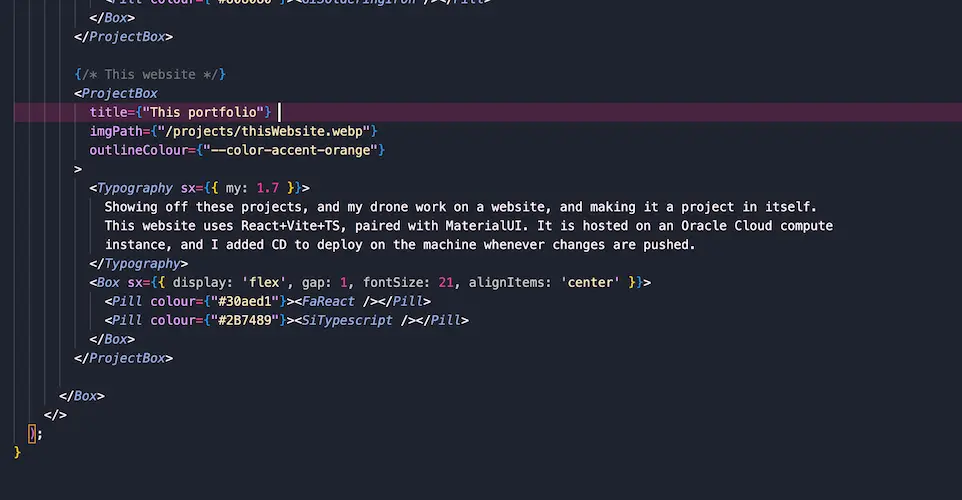
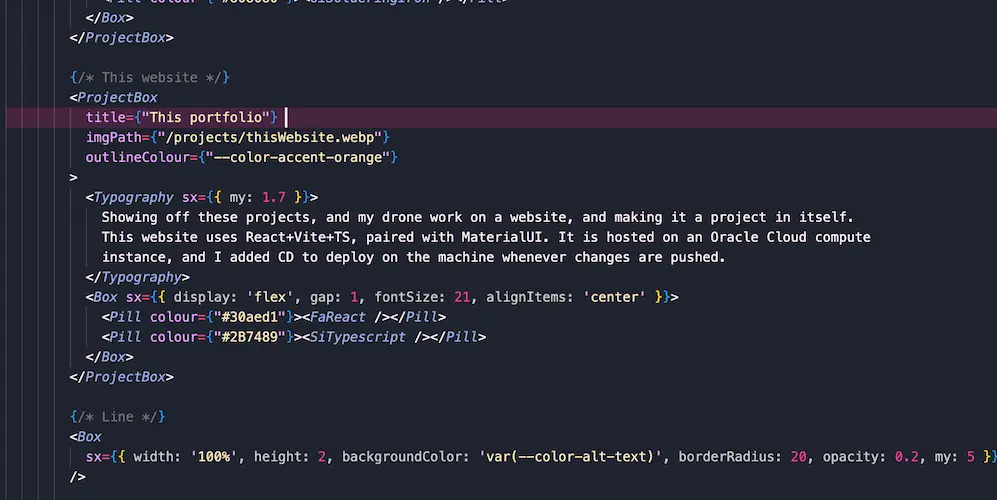
added SmallProjectBox and section for that

Changed region(s): [[0.0, 0.36, 1.0, 0.96], [0.0, 0.12, 1.0, 0.36], [0.0624, 0.0, 0.499, 0.09]]

diff --git a/src/pages/Projects.tsx b/src/pages/Projects.tsx
@@ -9,6 +9,7 @@ import { FaReact } from "react-icons/fa";
 import { Skills } from '../components/Projects/Skills';
 import { Pill } from '../components/Pill';
 import { GiSolderingIron } from 'react-icons/gi';
+import { SmallProjectBox } from '../components/SmallProjectBox';
 
 export default function Projects() {
   return (
@@ -30,10 +31,8 @@ export default function Projects() {
           link={{url: "https://github.com/PledgeJ/OBSOverwatchOverlay", text:"Github repo"}}
         >
           <Typography sx={{ my: 1.7 }}>
-            Created an overlay for OBS (specific to the game Overwatch) to help keep score and display information and statistics during streams. This has been used during streams for events at the
-            {' '}<Box component="span" sx={{ fontWeight: 800 }}>
-              University of Nottingham
-            </Box>{' '}
+            Created an overlay for OBS (specific to the game Overwatch) to help keep score, and display information and statistics in between games, during streams. This has been used during streams for events at the
+            {' '}<Box component="span" sx={{ fontWeight: 800 }}>University of Nottingham</Box>{' '}
             for events such as Notts Clash, and the UoN Draft Tournament.
           </Typography>
           <Box sx={{ display: 'flex', gap: 1, fontSize: 21, alignItems: 'center' }}>
@@ -74,6 +73,28 @@ export default function Projects() {
             <Pill colour={"#2B7489"}><SiTypescript /></Pill>
           </Box>
         </ProjectBox>
+
+        {/* Compact project section */}
+        <Box
+          sx={{pb: 7}}
+        >
+          {/* Line */}
+          <Box 
+            sx={{ width: '100%', height: 2, backgroundColor: 'var(--color-alt-text)', borderRadius: 20, opacity: 0.2, my: 5 }}
+          />
+
+          <SmallProjectBox title={"Test"} link={{url: "https://github.com/PledgeJ/OBSOverwatchOverlay", text:"Github repo"}}>
+            <Box sx={{ display: 'flex', gap: 1, fontSize: 21, alignItems: 'center' }}>
+              <Pill colour={"#30aed1"}><FaReact /></Pill>
+              <Pill colour={"#2B7489"}><SiTypescript /></Pill>
+            </Box>
+          </SmallProjectBox>
+
+          {/* Line */}
+          <Box 
+            sx={{ width: '100%', height: 2, backgroundColor: 'var(--color-alt-text)', borderRadius: 20, opacity: 0.2, my: 5 }}
+          />
+        </Box>
         
       </Box>
     </>

diff --git a/src/components/SmallProjectBox.tsx b/src/components/SmallProjectBox.tsx
@@ -1,0 +1,32 @@
+import { Box, Link, Typography } from "@mui/material";
+import type React from "react";
+
+interface ProjectBoxProps {
+  title?: string;
+  link?: {url: string, text: string};
+  outlineColour?: string;
+  children?: React.ReactNode;
+}
+
+export function SmallProjectBox({
+  title = '',
+  link = {url: '', text: ''},
+  children,
+}: ProjectBoxProps): React.JSX.Element {
+  return (
+    <Box
+      sx={{
+        maxWidth: 470,
+        display: 'flex', alignItems: 'center', gap: 2, justifyContent: 'space-between',
+        mt: 2, backgroundColor: 'var(--color-card-bg)', padding: 1, py: 1.5, borderRadius: 2
+      }}
+    >
+      <Typography variant='h2' sx={{ fontSize: '1.4rem', ml: 0.5}}>{title}</Typography>
+
+      <Box sx={{display: 'inline-flex', alignItems: 'center', gap: 3}}>
+        <Link href={link.url} target="_blank" rel="noopener noreferrer">{link.text}</Link>
+        {children}
+      </Box>
+    </Box>
+  );
+}
